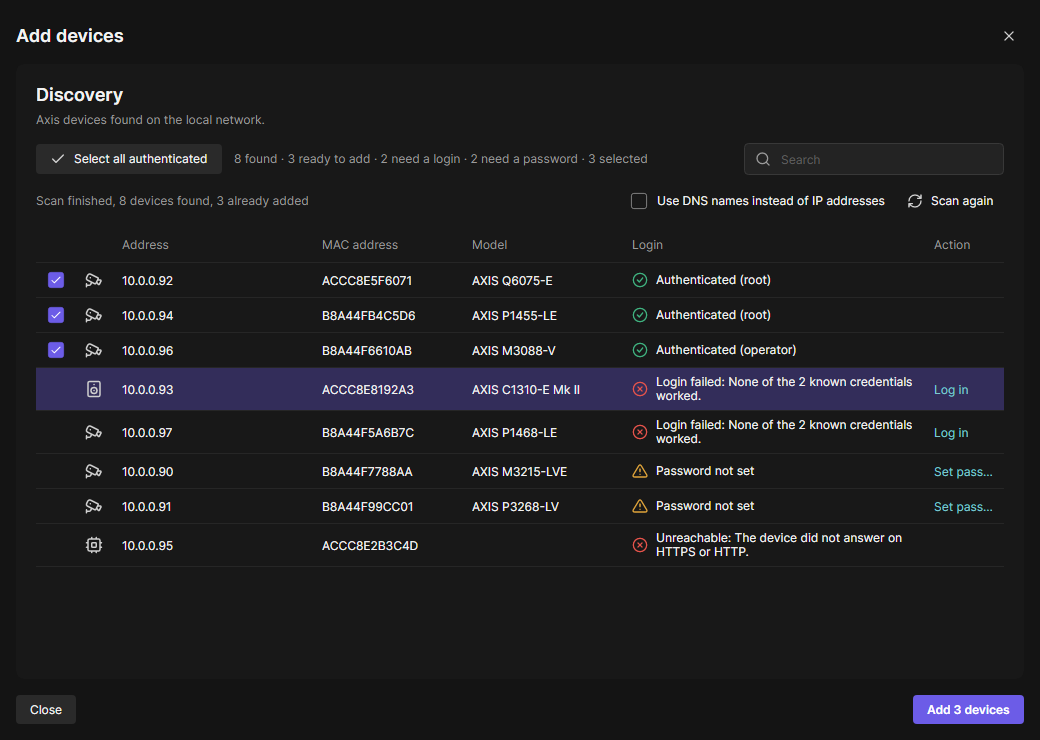
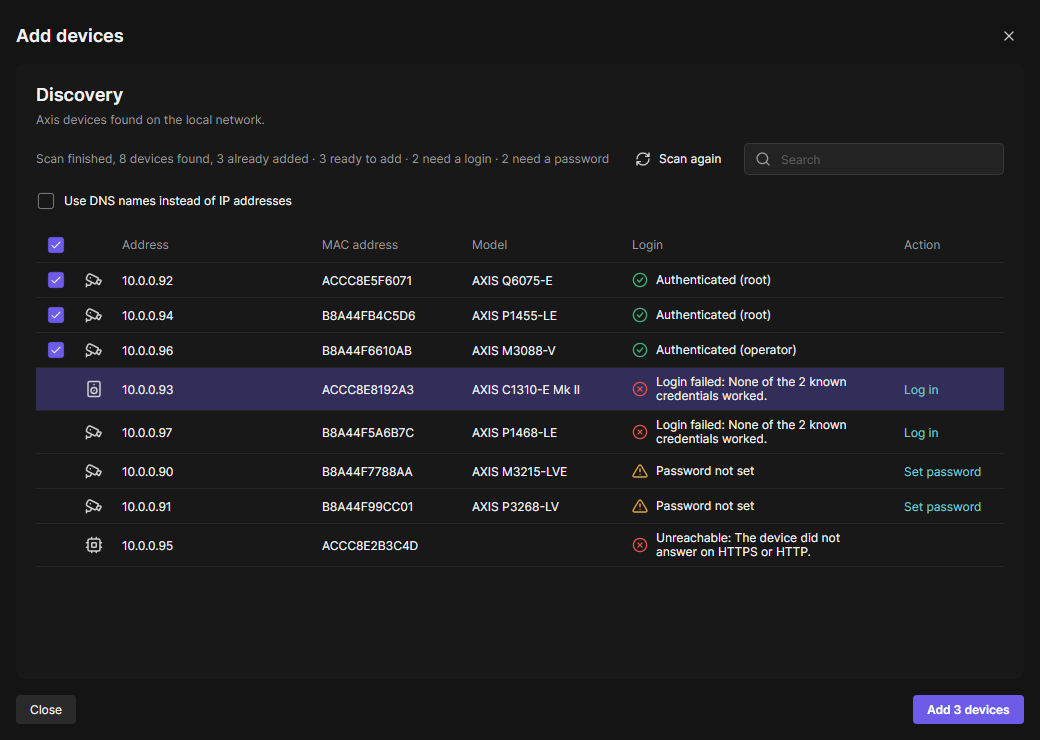
feat(add-devices): check box in the list header instead of Select all authenticated, one info line, Add N now, M later next to Add
The scan status and the counts share one line; an import offers a second footer button for the devices that do not answer instead of the Keep devices waiting check box.

diff --git a/src/Oadm.Client/Discovery/AddDevicesViewModel.cs b/src/Oadm.Client/Discovery/AddDevicesViewModel.cs
@@ -252,8 +252,54 @@ public sealed partial class AddDevicesViewModel : ValidatingViewModel, IAsyncDis
 
     [ObservableProperty] public partial bool IsProgressIndeterminate { get; private set; }
     [ObservableProperty] public partial int ScanProgress { get; private set; }
-    [ObservableProperty] public partial string ScanStatusText { get; private set; } = "";
-    [ObservableProperty] public partial string SummaryText { get; private set; } = "";
+    [ObservableProperty]
+    [NotifyPropertyChangedFor(nameof(StatusLine))]
+    public partial string ScanStatusText { get; private set; } = "";
+
+    [ObservableProperty]
+    [NotifyPropertyChangedFor(nameof(StatusLine))]
+    public partial string SummaryText { get; private set; } = "";
+
+    /// <summary>
+    /// The one info line above the list: the scan status, then the counts ("Import finished, 5 devices found · 4 ready to
+    /// add · 1 need a login · 4 selected"). Once a scan ended its status already names what was found.
+    /// </summary>
+    public string StatusLine
+    {
+        get
+        {
+            if (ScanStatusText.Length == 0)
+            {
+                return SummaryText;
+            }
+
+            return ScanStatusText + " · " + (IsScanning ? SummaryText : _summaryWithoutFound);
+        }
+    }
+
+    private string _summaryWithoutFound = "";
+
+    /// <summary>
+    /// The check box in the list header: true when every device that can be added is checked, false when none is, null
+    /// for some. Setting it checks every device the search shows, or unchecks them when all were checked.
+    /// </summary>
+    public bool? AllSelected
+    {
+        get => _selected == 0 ? false : _selected >= _ready ? true : null;
+        set
+        {
+            bool check = AllSelected != true;
+            foreach (DiscoveredRowViewModel row in FilteredRows.Where(r => r.CanAdd))
+            {
+                row.IsSelected = check;
+            }
+
+            OnPropertyChanged();
+        }
+    }
+
+    /// <summary>The header check box works only while a listed device can be added.</summary>
+    public bool CanSelectAll => _ready > 0;
     [ObservableProperty] public partial string? ErrorText { get; private set; }
 
     [ObservableProperty]
@@ -261,7 +307,7 @@ public sealed partial class AddDevicesViewModel : ValidatingViewModel, IAsyncDis
     public partial int SelectedCount { get; private set; }
 
     [ObservableProperty]
-    [NotifyCanExecuteChangedFor(nameof(AddCommand))]
+    [NotifyCanExecuteChangedFor(nameof(AddCommand), nameof(AddWithWaitingCommand))]
     public partial bool IsBusy { get; private set; }
 
     /// <summary>The progress row while the checked devices are added: "Adding 3,000 devices".</summary>
@@ -270,17 +316,22 @@ public sealed partial class AddDevicesViewModel : ValidatingViewModel, IAsyncDis
     [ObservableProperty] public partial string AddButtonText { get; private set; } = "Add";
 
     /// <summary>
-    /// Import: keep the lines whose device did not answer on the server's waiting list; the server adds them once they
-    /// answer. Checked by default.
+    /// Import: the second footer button, the checked devices now and the lines whose device did not answer later, through
+    /// the server's waiting list: "Add 4 now, 2 later".
     /// </summary>
-    [ObservableProperty]
-    [NotifyCanExecuteChangedFor(nameof(AddCommand))]
-    public partial bool KeepWaiting { get; set; } = true;
+    [ObservableProperty] public partial string AddWithWaitingText { get; private set; } = "";
+
+    /// <summary>The text left of that button: "2 devices do not answer yet. OADM adds them once they come online."</summary>
+    [ObservableProperty] public partial string WaitingHint { get; private set; } = "";
 
     /// <summary>Import lines that would be kept waiting now (<see cref="DiscoveredRowViewModel.CanWait"/>).</summary>
     [ObservableProperty]
-    [NotifyCanExecuteChangedFor(nameof(AddCommand))]
+    [NotifyPropertyChangedFor(nameof(ShowAddWithWaiting))]
+    [NotifyCanExecuteChangedFor(nameof(AddWithWaitingCommand))]
     public partial int WaitingCount { get; private set; }
+
+    /// <summary>The waiting list button and its text: an import with lines whose device did not answer.</summary>
+    public bool ShowAddWithWaiting => WaitingCount > 0;
 
     /// <summary>Lines in one call of the waiting list (a 30,000-line import is six calls).</summary>
     public const int WaitingBatch = 5_000;
@@ -685,21 +736,18 @@ public sealed partial class AddDevicesViewModel : ValidatingViewModel, IAsyncDis
 
     private bool CanProbeAddress() => Validation.IsValidFor(nameof(ManualAddress));
 
-    /// <summary>Checks every device that can be added (authenticated, or factory default with a password ready).</summary>
-    [RelayCommand]
-    private void SelectAllAuthenticated()
-    {
-        foreach (DiscoveredRowViewModel row in FilteredRows.Where(r => r.CanAdd))
-        {
-            row.IsSelected = true;
-        }
-    }
-
+    /// <summary>Adds the checked devices.</summary>
     [RelayCommand(CanExecute = nameof(CanAdd))]
-    private async Task AddAsync()
+    private Task AddAsync() => AddCoreAsync(keepWaiting: false);
+
+    /// <summary>Import: adds the checked devices and keeps the lines whose device did not answer on the waiting list.</summary>
+    [RelayCommand(CanExecute = nameof(CanAddWithWaiting))]
+    private Task AddWithWaitingAsync() => AddCoreAsync(keepWaiting: true);
+
+    private async Task AddCoreAsync(bool keepWaiting)
     {
         List<DiscoveredRowViewModel> selected = Rows.Where(r => r.IsSelected && r.CanAdd).ToList();
-        List<DiscoveredRowViewModel> waiting = IsImportMode && KeepWaiting ? Rows.Where(r => r.CanWait).ToList() : [];
+        List<DiscoveredRowViewModel> waiting = IsImportMode && keepWaiting ? Rows.Where(r => r.CanWait).ToList() : [];
         if (selected.Count == 0 && waiting.Count == 0)
         {
             return;
@@ -783,9 +831,11 @@ public sealed partial class AddDevicesViewModel : ValidatingViewModel, IAsyncDis
         CloseRequested?.Invoke(this, AddedDeviceIds.Count > 0);
     }
 
-    partial void OnKeepWaitingChanged(bool value) => UpdateSummary();
+    private bool CanAdd() => !IsBusy && SelectedCount > 0;
 
-    private bool CanAdd() => !IsBusy && (SelectedCount > 0 || (IsImportMode && KeepWaiting && WaitingCount > 0));
+    private bool CanAddWithWaiting() => !IsBusy && IsImportMode && WaitingCount > 0;
+
+    partial void OnIsScanningChanged(bool value) => OnPropertyChanged(nameof(StatusLine));
 
     /// <summary>The lines whose device did not answer go to the server's waiting list, in batches.</summary>
     private async Task KeepWaitingAsync(List<DiscoveredRowViewModel> rows)
@@ -1351,14 +1401,23 @@ public sealed partial class AddDevicesViewModel : ValidatingViewModel, IAsyncDis
         }
 
         parts.Add(string.Create(CultureInfo.CurrentCulture, $"{SelectedCount} selected"));
+        _summaryWithoutFound = string.Join(" · ", parts.Skip(1));
         SummaryText = string.Join(" · ", parts);
+        OnPropertyChanged(nameof(StatusLine));
+        OnPropertyChanged(nameof(AllSelected));
+        OnPropertyChanged(nameof(CanSelectAll));
         AddButtonText = SelectedCount switch
         {
-            0 when KeepWaiting && WaitingCount > 0 => string.Create(CultureInfo.CurrentCulture, $"Keep {WaitingCount:N0} waiting"),
             0 => "Add",
             1 => "Add 1 device",
-            _ => string.Create(CultureInfo.CurrentCulture, $"Add {SelectedCount} devices"),
+            _ => string.Create(CultureInfo.CurrentCulture, $"Add {SelectedCount:N0} devices"),
         };
+        AddWithWaitingText = SelectedCount == 0
+            ? string.Create(CultureInfo.CurrentCulture, $"Add {WaitingCount:N0} later")
+            : string.Create(CultureInfo.CurrentCulture, $"Add {SelectedCount:N0} now, {WaitingCount:N0} later");
+        WaitingHint = WaitingCount == 1
+            ? "1 device does not answer yet. OADM adds it once it comes online."
+            : string.Create(CultureInfo.CurrentCulture, $"{WaitingCount:N0} devices do not answer yet. OADM adds them once they come online.");
     }
 
     private static string Message(Exception ex) => ex is RpcException rpc ? rpc.Status.Detail : ex.Message;

diff --git a/tests/Oadm.Client.Tests/AddDevicesPageTests.cs b/tests/Oadm.Client.Tests/AddDevicesPageTests.cs
@@ -88,7 +88,6 @@ public sealed class AddDevicesPageTests : IDisposable
         Assert.Single(page.FilteredRows);
         page.SearchText = "";
 
-        page.SelectAllAuthenticatedCommand.Execute(null);
         await page.AddCommand.ExecuteAsync(null);
 
         IReadOnlyList<Device> devices = await _api.ListDevicesAsync(CancellationToken.None);
@@ -123,8 +122,16 @@ public sealed class AddDevicesPageTests : IDisposable
         }); // a later report of the same device
         Assert.False(Row(page, "10.0.0.92").IsSelected);
 
-        page.SelectAllAuthenticatedCommand.Execute(null);
+        // The header check box: some checked shows the dash, a click checks all, the next one unchecks all.
+        Assert.Null(page.AllSelected);
+        Assert.True(page.CanSelectAll);
+        page.AllSelected = true;
         Assert.Equal(3, page.SelectedCount);
+        Assert.True(page.AllSelected);
+        page.AllSelected = false;
+        Assert.Equal(0, page.SelectedCount);
+        Assert.False(page.AllSelected);
+        page.AllSelected = true;
         Assert.Equal("Add 3 devices", page.AddButtonText);
 
         await page.AddCommand.ExecuteAsync(null);
@@ -408,23 +415,23 @@ public sealed class AddDevicesPageTests : IDisposable
         await TestSupport.WaitUntilAsync(() => !page.IsScanning && page.Rows.All(r => r.IsImportPlaceholder ? r.HasImportProblem : r.AuthState != AuthState.Pending));
 
         // The two that did not answer can wait; the invalid line cannot.
-        Assert.True(page.KeepWaiting);
         Assert.Equal(2, page.WaitingCount);
+        Assert.True(page.ShowAddWithWaiting);
         Assert.Equal(["10.0.0.199", "10.99.0.1"], page.Rows.Where(r => r.CanWait).Select(r => r.Address));
         Assert.Equal("Add 1 device", page.AddButtonText); // the device that logged in is checked by itself
+        Assert.Equal("Add 1 now, 2 later", page.AddWithWaitingText);
+        Assert.Equal("2 devices do not answer yet. OADM adds them once they come online.", page.WaitingHint);
         Row(page, "10.0.0.93").IsSelected = false;
-        Assert.Equal("Keep 2 waiting", page.AddButtonText);
-        Assert.True(page.AddCommand.CanExecute(null));
-        page.KeepWaiting = false;
         Assert.Equal("Add", page.AddButtonText);
         Assert.False(page.AddCommand.CanExecute(null));
-        page.KeepWaiting = true;
+        Assert.Equal("Add 2 later", page.AddWithWaitingText);
+        Assert.True(page.AddWithWaitingCommand.CanExecute(null));
 
-        page.SelectAllAuthenticatedCommand.Execute(null);
+        page.AllSelected = true;
         Assert.Equal("Add 1 device", page.AddButtonText);
         bool closed = false;
         page.CloseRequested += (_, _) => closed = true;
-        await page.AddCommand.ExecuteAsync(null);
+        await page.AddWithWaitingCommand.ExecuteAsync(null);
 
         Assert.True(closed);
         Assert.Contains(await _api.ListDevicesAsync(CancellationToken.None), d => d.Address == "10.0.0.93");
@@ -516,7 +523,6 @@ public sealed class AddDevicesPageTests : IDisposable
 
         // Rows with a problem cannot be selected; the found ones are added as usual, with the file's credentials.
         page.Rows[4].IsSelected = true;
-        page.SelectAllAuthenticatedCommand.Execute(null);
         Assert.Equal("Add 2 devices", page.AddButtonText);
         await page.AddCommand.ExecuteAsync(null);
         IReadOnlyList<Device> devices = await _api.ListDevicesAsync(CancellationToken.None);
@@ -547,7 +553,7 @@ public sealed class AddDevicesPageTests : IDisposable
         await using AddDevicesViewModel page = Create(AddDevicesMode.Import);
         page.SetImport(ThirtyThousandLines());
         page.SearchText = "10.1.3.";
-        page.SelectAllAuthenticatedCommand.Execute(null);
+        page.AllSelected = true;
 
         Assert.Equal(DeviceImportFile.MaxLines, page.Rows.Count);
         Assert.Equal(256, page.FilteredRows.Count);
@@ -566,7 +572,7 @@ public sealed class AddDevicesPageTests : IDisposable
         long listed = watch.ElapsedMilliseconds;
         page.SearchText = "10.1.3.";
         long filtered = watch.ElapsedMilliseconds - listed;
-        page.SelectAllAuthenticatedCommand.Execute(null);
+        page.AllSelected = true;
         long all = watch.ElapsedMilliseconds;
 
         Assert.Equal(256, page.FilteredRows.Count);
@@ -634,7 +640,6 @@ public sealed class AddDevicesPageTests : IDisposable
         await page.OpenAsync();
         await TestSupport.WaitUntilAsync(() => page.Rows.Count == 11 && page.Rows.All(r => r.AuthState != AuthState.Pending));
         _api.DeviceLimit = _api.DeviceCount + 1;
-        page.SelectAllAuthenticatedCommand.Execute(null);
         bool closed = false;
         page.CloseRequested += (_, _) => closed = true;
 

diff --git a/tests/Oadm.Client.Tests/HeadlessSmokeTests.cs b/tests/Oadm.Client.Tests/HeadlessSmokeTests.cs
@@ -290,7 +290,6 @@ public sealed class HeadlessSmokeTests
             manualVm.ManualAddress = "10.0.0.199";
             await manualVm.ProbeAddressCommand.ExecuteAsync(null);
             await PumpUntilAsync(() => manualVm.ErrorOf(nameof(AddDevicesViewModel.ManualAddress)) is not null);
-            manualVm.SelectAllAuthenticatedCommand.Execute(null);
             await PumpUntilAsync(() => true);
             Capture(manualWindow, outDir, "client-add-manual.png");
             await manualVm.DisposeAsync();
@@ -310,7 +309,6 @@ public sealed class HeadlessSmokeTests
             var importWindow = new AddDevicesWindow { DataContext = importVm, Width = 1040 };
             importWindow.Show();
             await PumpUntilAsync(() => importVm.ImportCompletion is { IsCompleted: true } && !importVm.IsScanning && importVm.Rows.All(r => r.IsImportPlaceholder || r.AuthState != AuthState.Pending));
-            importVm.SelectAllAuthenticatedCommand.Execute(null);
             await PumpUntilAsync(() => true);
             Capture(importWindow, outDir, "client-add-import.png");
             Assert.Equal("Import finished, 4 devices found", importVm.ScanStatusText);

diff --git a/tests/Oadm.Client.Tests/Perf/ClientScaleTests.cs b/tests/Oadm.Client.Tests/Perf/ClientScaleTests.cs
@@ -377,7 +377,12 @@ public sealed class TaskListScaleTests(ITestOutputHelper output)
         Assert.Contains("27000 ready to add", page.SummaryText.Replace(",", "", StringComparison.Ordinal), StringComparison.Ordinal);
         Assert.Contains("3000 need a login", page.SummaryText.Replace(",", "", StringComparison.Ordinal), StringComparison.Ordinal);
 
-        ClientScale.Measure(output, "Select all 27,000 authenticated devices", TimeSpan.FromSeconds(2), () => page.SelectAllAuthenticatedCommand.Execute(null));
+        Assert.True(page.AllSelected); // checked by themselves
+        ClientScale.Measure(output, "Uncheck and check all 27,000 authenticated devices", TimeSpan.FromSeconds(4), () =>
+        {
+            page.AllSelected = false;
+            page.AllSelected = true;
+        });
         Assert.Equal(ClientScale.Devices * 9 / 10, page.SelectedCount);
 
         ClientScale.Measure(output, "Search the add page list", TimeSpan.FromMilliseconds(500), () =>

diff --git a/src/Oadm.Core/Devices/WaitingDevices.cs b/src/Oadm.Core/Devices/WaitingDevices.cs
@@ -112,7 +112,7 @@ public sealed record WaitingPage(IReadOnlyList<WaitingDeviceItem> Items, int Tot
 public sealed class WaitingListFullException(string message) : InvalidOperationException(message);
 
 /// <summary>
-/// The waiting list of the import ("Keep devices that do not answer"). One entry per address (an import of the same
+/// The waiting list of the import ("Add 4 now, 2 later"). One entry per address (an import of the same
 /// address again replaces its login, MAC address and tags and is tried like new), at most <see cref="MaxEntries"/>.
 /// Passwords are encrypted with the master key like the credential list (entry id as associated data) and never listed.
 /// Writes go one at a time (two imports at once never break the limit or the one entry per address), and writes for many

diff --git a/tests/Oadm.Client.Tests/Perf/ClientLimitsTests.cs b/tests/Oadm.Client.Tests/Perf/ClientLimitsTests.cs
@@ -221,7 +221,11 @@ public sealed class ClientLimitsTests(ITestOutputHelper output)
                         page.OnDiscovered("s1", device);
                     }
                 });
-                Time(log, "Add page: select all logged in", () => page.SelectAllAuthenticatedCommand.Execute(null));
+                Time(log, "Add page: uncheck and check all logged in", () =>
+                {
+                    page.AllSelected = false;
+                    page.AllSelected = true;
+                });
                 SlowestKeystroke(log, "Add page search", text => page.SearchText = text);
                 return Task.FromResult(log);
             }, CancellationToken.None);

diff --git a/src/Oadm.Client/Discovery/DiscoveredRowViewModel.cs b/src/Oadm.Client/Discovery/DiscoveredRowViewModel.cs
@@ -75,7 +75,7 @@ public sealed partial class DiscoveredRowViewModel : ObservableObject
 
     /// <summary>
     /// Import: the line's device did not answer, or did not identify itself as an Axis device (no password was sent). The
-    /// page keeps such lines on the server's waiting list when "Keep devices that do not answer" is checked.
+    /// page keeps such lines on the server's waiting list with "Add 4 now, 2 later".
     /// </summary>
     public bool CanWait => ImportLine is { Problem: null } && !IsAdded && !IsAlreadyManaged
         && (HasImportProblem ? _notFound : !IsImportPlaceholder && AuthState == AuthState.Unreachable);

diff --git a/tests/Oadm.Client.Tests/DeviceTagsTests.cs b/tests/Oadm.Client.Tests/DeviceTagsTests.cs
@@ -336,7 +336,6 @@ public sealed class DeviceTagsTests
             await page.ImportCompletion!;
             await TestSupport.WaitUntilAsync(() => !page.IsScanning && page.Rows.All(r => r.IsImportPlaceholder || r.AuthState != AuthState.Pending));
 
-            page.SelectAllAuthenticatedCommand.Execute(null);
             await page.AddCommand.ExecuteAsync(null);
 
             IReadOnlyList<Device> devices = await api.ListDevicesAsync(CancellationToken.None);

diff --git a/CLAUDE.md b/CLAUDE.md
@@ -627,7 +627,9 @@ controls: title bar, one card, footer) in four modes:
   `Discovery.ZeroConfSeconds` (Settings page, default 30 s, 5..300).
 - **Scan IP range**: From / To inputs on top; Enter or the Scan button starts (several ranges add to
   the same list).
-- Scan progress row (`ui:ProgressRow`, indeterminate for zero-conf, percent for ranges) with a
+- One info line above the list (`ui:ProgressRow`, indeterminate for zero-conf, percent for ranges): the scan status and the
+  counts in one text (`AddDevicesViewModel.StatusLine`: "Import finished, 5 devices found · 4 ready to add · 1 need a login
+  · 4 selected"; while a scan runs "Searching the network... · 8 found · ..."), then a
   **Stop** button (icon stop) while a zero-conf or range scan runs (`StopScan` for every running
   session; the devices found stay) and **Scan again** (icon refresh) after it finished or was stopped
   (zero-conf: a new session; range: the same range again; found devices stay, deduplicated by serial; a
@@ -668,12 +670,12 @@ controls: title bar, one card, footer) in four modes:
   (1.5 s, like the range scan; `ProbeAddressRequest.import_line = 5`), Add manually keeps 3 s: 30,000 lines with 10 % off
   take about 12 to 15 minutes on a LAN.
 
-**Waiting list** ("Keep devices that do not answer and add them when they come online", check box of the import page,
-Import from file and Import from ADM, checked by default; `AddDevicesViewModel.KeepWaiting`): on Add the lines whose device
+**Waiting list** (Import from file and Import from ADM: while lines did not answer, the footer shows "2 devices do not
+answer yet. OADM adds them once they come online." and a secondary button **Add 4 now, 2 later** ("Add 2 later" without
+checked rows; `AddWithWaitingCommand`) left of **Add 4 devices**, which adds only the checked devices): with it the lines whose device
 did not answer or did not identify itself as an Axis device (`DiscoveredRowViewModel.CanWait`: "Not found" or Unreachable;
 not file problems, not Login failed, not "Not checked") go to the server in batches of 5,000 (`WaitingDeviceService.Add`)
-with their address, login, expected MAC address and tags, before the found devices are committed; without checked rows the
-button reads "Keep 3,000 waiting". The page reads the waiting list before it probes (`ListWaiting`, a role without the
+with their address, login, expected MAC address and tags, before the found devices are committed. The page reads the waiting list before it probes (`ListWaiting`, a role without the
 right: none): a line that does not answer and is waiting already shows **Already waiting** ("An earlier import keeps it
 waiting. OADM adds it once it answers.", neutral), is not kept again, and the finish line adds ", 12 already waiting".
 Server: `Oadm.Core.Devices.WaitingDeviceStore` (table WaitingDevices, migration
@@ -744,15 +746,16 @@ Model (160), Login (status, star: takes the rest so status and detail sit right 
 shows on up to two lines, grid class `wrapRows`), Action (auto, at the right edge). An empty list says what to do first ("Enter a range and press Scan.", "Enter an address and press Find."). Scan
 and Find are filled secondary buttons. A page error (Add or discovery failed) stands directly below the list. The scan
 progress bar disappears once a scan or import ended; its text stays. Problems of file lines ("Not added") use the
-warning chip, devices that do not answer the error chip. Above it
-"Select all authenticated", a summary ("10 found · 3 ready to add · 1 need a login · 2 need a
-password · 3 selected"), search box and the scan progress row. Login status per device
+warning chip, devices that do not answer the error chip. Above it one row: the info line (above), Stop / Scan again and the
+search box; Discovery and Network range add the DNS name check box below it. Login status per device
 (`ui:StatusChip`): Checking... (accent), Authenticated (user) (ok), Password not set (warning),
 Login failed (error, reason as tooltip), Unreachable (error), Added (ok, row greyed; already managed devices are not
 listed, see above).
 Only addable devices can be checked: authenticated ones, and factory-default ones
 once a first password is entered. A device is checked by itself the first time it can be added (forum: the button was
-easy to miss and Add did nothing); one the user unchecks stays unchecked, **Select all authenticated** checks all again. **Add** (footer, "Add 3 devices") commits the checked devices
+easy to miss and Add did nothing); one the user unchecks stays unchecked. The check box column's header is a three-state
+check box (`AllSelected`: all, some = dash, none of the devices that can be added; O(1) from the counters; disabled while
+none can be added): a click checks every addable row the search shows, or unchecks them when all were checked. **Add** (footer, "Add 3 devices") commits the checked devices
 in one click and the page always closes (no "Keep open" option).
 Every password field (login editor, first password + confirm) is `ui:PasswordBox` with the eye button.
 

diff --git a/CHANGELOG.md b/CHANGELOG.md
@@ -23,6 +23,9 @@ version and date, and the release workflow copies it into the GitHub release.
 ### Changed
 
 - Count cards (Edge storage, Image Health Dashboard and others) have the card background like every other card.
+- Add devices: the check box in the list header checks or unchecks all devices (instead of **Select all
+  authenticated**), the scan status and the counts share one line, and an import offers **Add 4 now, 2 later** next to
+  **Add** instead of the "Keep devices that do not answer" check box.
 - Add devices: devices OADM logged in to are checked by themselves, so **Add** works without clicking **Select all
   authenticated** first. A device you uncheck stays unchecked.
 
